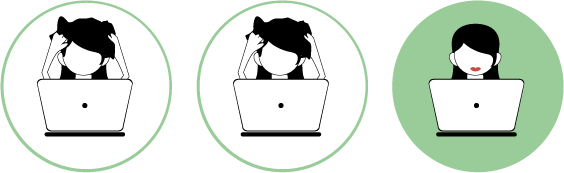
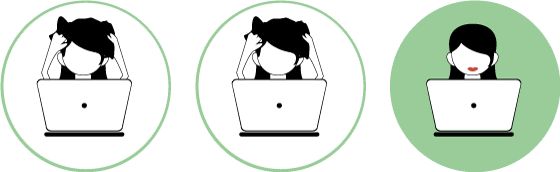
Image - Responsive

diff --git a/css/style.css b/css/style.css
@@ -583,99 +583,6 @@ The .cd-intro change the background image
 
 
 
-table { 
-  width: 100%; 
-  border-collapse: collapse; 
-}
-
-td, th { 
-  padding: 6px; 
-  text-align: center; 
-}
-
-
-@media 
-only screen and (max-width: 760px),
-(min-device-width: 768px) and (max-device-width: 1024px)  {
-
-/* force table to not be like tables anymore 
-*/  table, thead, tbody, th, td, tr { 
-    display: block; 
-  }
-  
-
-  td {
-    /* Behave  like a "row" */
-    border: none;
-    position: relative;
-  }
-  
-  
-  td:before { 
-    /* Now like a table header */
-    position: absolute;
-    /* Top/left values mimic padding */
-    top: 6px;
-    left: 6px;
-    width: 45%; 
-    padding-right: 10px; 
-    white-space: nowrap;
-  }
-
-}
-
-
-.cd-container-icon {
-  display: block;
-  margin-right: auto;
-  margin-left: auto;
-  padding-bottom: 10%;
-}
-
-#ladies-icon {
-  display: inline-block;
-  margin-right: auto;
-  margin-left: auto;
-  padding: 5%;
-}
-
-
-.ready-btn {
-	margin: 0 auto;
-	width: 10rem;
-	border: #99cc99 solid 1px;
-  border-radius: 5px;
-	padding: 20px 10px 20px 10px;
-  font-family: 'Open Sans', serif;
-  font-weight: 600;
-  font-size: 1.2em;
-  letter-spacing: .05em;
-	color: rgba(2, 23, 37, 0.7);
-}
-
-
-.ready-btn:hover {
-  border: #99cc99 solid 1px;
-  background-color: #99cc99;
-	color: rgba(2, 23, 37, 0.7);
-}
-
-.cd-container-more-about {
-	width: 100%;
-  background-color: #333443;
-  color: white;
-	max-width: 1280px;
-  display: inline-block;
-  padding-bottom: 2%;
-	margin: 0 auto;
-	text-align: center;
-}
-.row {
-	margin-top: 0.2rem;
-}
-
-
-
 /* -------------------------------- 
 
 Options Thumbnails
@@ -724,6 +631,113 @@ span.text-content span {
 ul.img-list li:hover span.text-content {
   opacity: 1;
 }
+
+
+
+/*table { 
+  width: 100%; 
+  border-collapse: collapse; 
+}
+
+td, th { 
+  padding: 6px; 
+  text-align: center; 
+}
+
+
+@media 
+only screen and (max-width: 760px),
+(min-device-width: 768px) and (max-device-width: 1024px)  {
+
+/* force table to not be like tables anymore 
+ table, thead, tbody, th, td, tr { 
+    display: block; 
+  }
+  
+
+  td {
+    /* Behave  like a "row" 
+    border: none;
+    position: relative;
+  }
+  
+  
+  td:before { 
+    /* Now like a table header 
+    position: absolute;
+    /* Top/left values mimic padding 
+    top: 6px;
+    left: 6px;
+    width: 45%; 
+    padding-right: 10px; 
+    white-space: nowrap;
+  }
+
+}
+*/
+
+.cd-container-icon {
+  display: block;
+  margin-right: auto;
+  margin-left: auto;
+  padding-bottom: 10%;
+}
+
+/*@media all and (min-width: 320px) and (max-width: 780px)  {
+  .ladies-icon{
+    max-width: 100%;
+  }
+}*/
+
+.ladies-icon {
+  display: inline-block;
+  margin-right: auto;
+  margin-left: auto;
+  padding: 5%;
+  width: 100%;
+  max-width: 560px;
+  height: auto;
+/*  position: relative;
+*/}
+
+
+
+
+.ready-btn {
+	margin: 0 auto;
+	width: 10rem;
+	border: #99cc99 solid 1px;
+  border-radius: 5px;
+	padding: 20px 10px 20px 10px;
+  font-family: 'Open Sans', serif;
+  font-weight: 600;
+  font-size: 1.2em;
+  letter-spacing: .05em;
+	color: rgba(2, 23, 37, 0.7);
+}
+
+
+.ready-btn:hover {
+  border: #99cc99 solid 1px;
+  background-color: #99cc99;
+	color: rgba(2, 23, 37, 0.7);
+}
+
+.cd-container-more-about {
+	width: 100%;
+  background-color: #333443;
+  color: white;
+  display: block;
+  padding-bottom: 2%;
+	margin: 0 auto;
+	text-align: center;
+}
+.row {
+	margin-top: 0.2rem;
+}
+
+
+
 
 
 /**/

diff --git a/index.html b/index.html
@@ -76,7 +76,7 @@
 	<div class="cd-container-more-about">
 		<div class="row">
 
-		<div class="cd-container">
+		<div class="cd-container" style="padding-top: 5rem;">
 			<h2>The options are endless.</h2>
 		</div>	
 
@@ -143,9 +143,9 @@
 		
 	<div class="cd-container" style="margin-top: 10rem;">
 
-		<h2>Unsurprisingly,</h2>
-			<div id="ladies-icon">
-				<img src="img/ladies.png" alt="1 in 3"/>
+		<h2>With all of these choices, </h2>
+			<div >
+				<img class="ladies-icon" src="img/ladies.png" alt="1 in 3"/>
 			</div>
 		<h2>less than 1 in 3 women are confident they can select the right investments. </h2>
 	</div>
